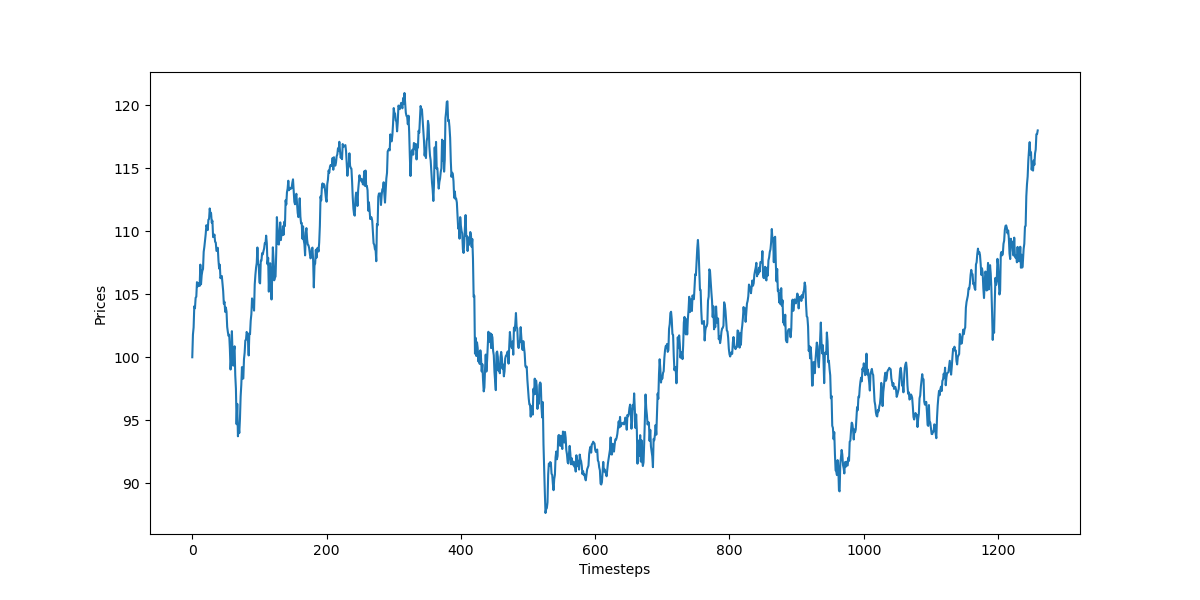
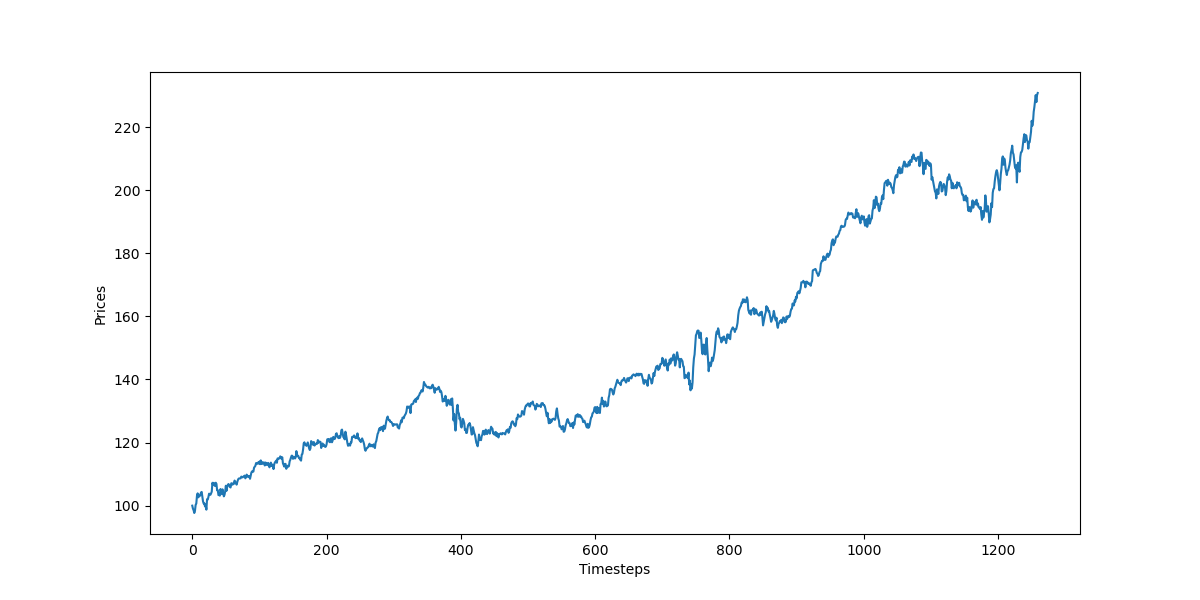
DCC GARCH 2 step optimization

diff --git a/data_generation_processes/DCC_GARCH_2step.py b/data_generation_processes/DCC_GARCH_2step.py
@@ -23,46 +23,77 @@ class DCC_GARCH():
         R_t:        n x n, conditional correlation matrix of a_t at time t.
         z_t:        n x 1 vector of iid errors such that E[z_t] = 0 and E[z_t z_t^T] = I.
     """
-    def __init__(self, data):
+    def __init__(self, data, type="vanilla"):
         """
             Args:
             data: (N,T) numpy array of T timesteps of N asset log returns
         """
-        self.N = data.shape[0]
-        self.T = data.shape[1]
-        self.data = data
-        self.r_data = data                                                          #(N, T)
-        self.mu = np.mean(self.r_data, axis=1, keepdims=True)                       #(N, 1) 
-        self.a_data = self.r_data - np.mean(self.r_data, axis=1, keepdims=True)     #(N, T)
-        self.H = np.cov(self.a_data)                                                #(N, N)
-        self.H_factor = np.linalg.cholesky(self.H)                                  #(N, N)
-        self.D = np.diag(np.std(self.a_data, axis=1))                               #(N, N)
-        self.R = np.corrcoef(self.a_data)                                           #(N, N)
-        self.a_return = self.H_factor@np.random.randn(self.N, 1)                    #(N, 1)
-        self.r = self.mu + self.a_return                                            #(N, 1)
-        self.e = np.linalg.inv(self.D)@self.a_return                                #(N, 1)
-        self.e_data = np.linalg.inv(self.D)@self.a_data                             #(N, T)
-        self.Q_bar = self.e_data@self.e_data.T/self.T                               #(N, N)                                           
-        self.Q = np.copy(self.Q_bar)                                                         #(N, N)
-        self.params_garch = np.zeros(self.N*3)+0.005                                     #[N*alpha0, N*alpha, N*beta, a, b]
-        self.params_dcc = np.zeros(2)+0.005
-        # self.alpha0 = np.std(self.a_data, axis=1)
-        # self.params = np.append(self.alpha0, np.zeros(self.N*2+2)+0.005)             #[N*alpha0, N*alpha, N*beta, a, b]
-        # self.nll_losses = []
-        # self.prev_params = np.copy(self.params)
-        # self.prev_nll = 0
-        # self.params = [1.04384412e-05, 5.56351037e-06, 3.14464258e-01, 3.24972411e-01, 7.64612517e-05, 1.00717994e-03, 2.27767312e-01, 1.10808117e-04]
+        self.type = type
+        self.N = data.shape[0]                                                      # Number of assets
+        self.T = data.shape[1]                                                      # NUmber of time steps
+        self.data = data                                                            #(N, T) Dataset of log returns
+        self.r_data = data                                                          #(N, T) Log returns of the data
+        self.mu = np.mean(self.r_data, axis=1, keepdims=True)                       #(N, 1) Expected value of the log returns of the data
+        self.a_data = self.r_data - np.mean(self.r_data, axis=1, keepdims=True)     #(N, T) Mean corrected returns of the dataset
+        self.H = np.cov(self.a_data)                                                #(N, N) conditional variance matrix 
+        self.H_factor = np.linalg.cholesky(self.H)                                  #(N, N) cholesky factorization of the covariance matrix
+        self.D = np.diag(np.std(self.a_data, axis=1))                               #(N, N) diagonal matrix of the standard deviation
+        self.R = np.corrcoef(self.a_data)                                           #(N, N) conditional correlation matrix 
+        self.a_return = self.H_factor@np.random.randn(self.N, 1)                    #(N, 1) generated a_t
+        self.r = self.mu + self.a_return                                            #(N, 1) generate r_t
+        self.e = np.linalg.inv(self.D)@self.a_return                                #(N, 1) generated e_t
+        self.e_data = np.linalg.inv(self.D)@self.a_data                             #(N, T) e_t from data
+        self.Q_bar = self.e_data@self.e_data.T/self.T                               #(N, N) Q_bar using e_data                                          
+        self.num_params_garch = 4 if self.type == "gjr" else 3
+        if type == "gjr":
+            self.params = np.concatenate((np.var(self.a_data, axis=1), np.zeros(self.N*2)+0.2, np.zeros(self.N)+0.1, np.zeros(2)+0.2))   # parameters [N*alpha0, N*alpha, N*beta, N*gamma, a, b]
+        else:
+            self.params = np.concatenate((np.var(self.a_data, axis=1), np.zeros(self.N*2)+0.2, np.zeros(2)+0.2))   # parameters [N*alpha0, N*alpha, N*beta, a, b]
+
+        # self.params = [8.26653925e-05, 4.26930333e-05, 2.15645253e-05, 3.47352036e-05, 2.17463059e-05, 2.77256555e-05, 
+        #                4.88055909e-01, 4.53632078e-01, 4.55335336e-01, 4.44909987e-01, 4.50541641e-01, 4.60263855e-01,
+        #                5.10702325e-01, 4.91397344e-01, 5.00709648e-01, 4.96429990e-01, 5.08129108e-01, 5.19125001e-01, 
+                    #    2.01240559e-01, 3.96732870e-01]                              # GARCH "AAPL ^GDAXI ^IXIC ^GSPC ^DJI MCD"
+        # self.params = [7.69190563e-06, 3.40617337e-06, 8.43286285e-07, 2.34670148e-06, 8.82266125e-07, 1.35735374e-06, 
+        #                5.34717567e-02, 9.90676117e-02, 1.71654882e-02, 9.09021040e-02, 2.00707347e-02, 3.07189856e-02,
+        #                9.08018007e-01, 8.96126936e-01, 9.47662499e-01, 8.96374022e-01, 9.47693815e-01, 9.42938402e-01,
+        #                6.27230466e-02, 2.92499894e-03, 5.06681487e-02, 1.77359878e-02, 4.40253553e-02, 3.28146310e-02, 
+        #                1.93617031e-02, 9.76175652e-01]                                # GJR-GARCH "AAPL ^GDAXI ^IXIC ^GSPC ^DJI MCD"
+        # self.params = [1.19523637e-05, 2.11605229e-06, 
+        #                1.03456625e-01, 1.04024146e-01, 
+        #                8.79042244e-01, 8.79606348e-01, 
+        #                2.33099997e-02, 9.72480707e-01]                              # GARCH "AAPL ^GSPC"                               
+        # self.params = [1.22778074e-05, 1.78956576e-06, 6.09289961e-02, 4.69337514e-03,
+        #                8.76762304e-01, 9.10380382e-01, 9.20651668e-02, 1.33300686e-01, 
+        #                2.69344690e-02, 9.67347998e-01]                                # GJR-GARCH "AAPL ^GSPC"
+        self.nll_losses = []                                                          # negative log likelihood array used to store training losses
+        
         def constraint_ab(x):
+            """DCC constraint a + b < 1"""
             return 1.0 - x[-2] - x[-1]
         
-        def constraint_alpha_beta(x):
-            return 1.0 - x[self.N:2*self.N] - x[2*self.N:3*self.N]
+        if self.type == "gjr":
+            def constraint_alpha_beta_gamma(x):
+                """GARCH constraint alpha_n + beta_n < 1"""
+                return 1.0 - x[self.N:2*self.N] - x[2*self.N:3*self.N] - x[3*self.N:4*self.N]/2.0
+            
+            self.garch_constraints = [{'type':'ineq', 'fun':constraint_alpha_beta_gamma}]
+        else:
+            def constraint_alpha_beta(x):
+                """GARCH constraint alpha_n + beta_n < 1"""
+                return 1.0 - x[self.N:2*self.N] - x[2*self.N:3*self.N]
+            
+            self.garch_constraints = [{'type':'ineq', 'fun':constraint_alpha_beta}]
         
-        self.constraints_garch = [{'type':'ineq', 'fun':constraint_alpha_beta}]
-        self.constraints_dcc = [{'type':'ineq', 'fun':constraint_ab}]
+        self.dcc_constraints = [{'type':'ineq', 'fun':constraint_ab}]
 
-        self.bounds_garch = Bounds([np.finfo(float).eps for i in range(self.N*3)], [np.inf for i in range(self.N*3)], keep_feasible=[True for i in range(self.N*3)])
-        self.bounds_dcc = Bounds([np.finfo(float).eps for i in range(2)], [np.inf for i in range(2)], keep_feasible=[True for i in range(2)])
+        self.garch_bounds = Bounds([np.finfo(float).eps for i in range(self.N*self.num_params_garch)],        # Bounds (0,inf) for alpha_0, alpha, beta, gamma(if gjr)
+                             [np.inf for i in range(self.N*self.num_params_garch)], 
+                             keep_feasible=[True for i in range(self.N*self.num_params_garch)])
+
+        self.dcc_bounds = Bounds([np.finfo(float).eps for i in range(2)],        # Bounds (0,inf) for a, b 
+                             [np.inf for i in range(2)], 
+                             keep_feasible=[True for i in range(2)])
 
     def D_t(self, params, t=0, train=False):
         """
@@ -71,12 +102,15 @@ class DCC_GARCH():
         alpha0 = np.expand_dims(params[0:self.N],axis=1)
         alpha = np.expand_dims(params[self.N:2*self.N],axis=1)
         beta = np.expand_dims(params[2*self.N:3*self.N], axis=1)
-        
-        h_vector = np.expand_dims(np.diag(self.D)**2,axis=1)
-        if train:
-            self.a_return = self.a_data[:, t:t+1]
+        if self.type == "gjr":
+            gamma = np.expand_dims(params[3*self.N:4*self.N], axis=1)
+            I = np.where(self.a_return > 0, 0.0, 1.0)
+            alpha = alpha + gamma*I
+
+        h_vector = np.expand_dims(np.diag(self.D)**2, axis=1)
         new_h_vector = alpha0 + alpha * self.a_return**2 + beta * h_vector
         self.D = np.diag(np.sqrt(new_h_vector.flatten()))
+        
         return self.D
     
     def R_t(self, params, t=0, train=False):
@@ -84,102 +118,138 @@ class DCC_GARCH():
             e_t = D_t^{-1} a_t \\sim N(0, R_t)
             R_t = Q_t^{*-1} Q_t Q_t^{*-1}
             Q_t = (1 - a - b) Q_bar + a e_{t-1} e_{t-1}^T + b Q_{t-1}
-
         """
         a = params[-2]
         b = params[-1]
 
-        if train:
-            self.e = self.e_data[:, t:t+1]
         self.Q = (1 - a - b) * self.Q_bar + a * self.e@self.e.T + b * self.Q
         Q_diag_inv = np.linalg.inv(np.diag(np.sqrt(np.diag(self.Q))))
         self.R = Q_diag_inv@self.Q@Q_diag_inv
-        
+
         return self.R
 
     def r_t(self, t=0, train=False):
+        """
+        r_t = mu + a_t
+        a_t = H_factor * z_t
+        H_t = D_t R_t D_t
+        """
         self.H = self.D@self.R@self.D
         self.H_factor = np.linalg.cholesky(self.H)
         self.a_return = self.H_factor@np.random.randn(self.N, 1)
         self.r = self.mu + self.a_return
-        # update standardized disturbances
         self.e = np.linalg.inv(self.D)@self.a_return
-        
         return self.r
     
-    def neg_log_likelihood_garch(self, params):
-        # if np.any(params < 0.0) or np.any(params > 1.0) or np.any(params[-2] + params[-1] > 1.0) or np.any(params[self.N:2*self.N] + params[2*self.N:3*self.N] > 1.0):
-        #     params = np.copy(self.prev_params)
-        #     return self.prev_nll+np.abs(self.prev_nll)*0.001
-        print("params: ", params)
+    def garch_neg_log_likelihood(self, params):
+        """
+        Compute negative log likelihhod
+        1/2 sum^T_{t=1} [n * ln(2*pi) + 2 * ln(det(D_t)) + ln(det(R_t)) + a_t^T D_t^{-1} R_t^{-1} D_t^{-1} a_t]
+        """
+        # print("params: ", params)
         train = True
         log_likelihood = 0
+        self.D = np.diag(np.std(self.a_data, axis=1))
+        # self.R = np.corrcoef(self.a_data)
+        Id = np.identity(self.N)
+        self.Q = self.Q_bar
         for t in range(self.T):
+            self.a_return = self.a_data[:, t:t+1]
+            current_log_likelihood = self.N * np.log(2*np.pi) + 2*np.log(np.linalg.det(self.D)) + self.a_return.T@np.linalg.inv(self.D)@Id@np.linalg.inv(self.D)@self.a_return
+            log_likelihood += current_log_likelihood
+            # self.e = np.linalg.inv(self.D)@self.a_return
             self.D_t(params=params, t=t, train=train)
-            current_log_likelihood = self.N * np.log(2*np.pi) + 2*np.log(np.linalg.det(self.D)) + self.a_return.T@np.linalg.inv(self.D)@np.identity(self.N)@np.linalg.inv(self.D)@self.a_return
-            log_likelihood += current_log_likelihood
-        nll = log_likelihood.flatten()[0]/2
-        print("nll: ", nll)
-        print()
-        # self.nll_losses.append(nll)
-        # self.prev_params = np.copy(params)
-        # self.prev_nll = np.copy(nll)
+            # self.R_t(params=params, t=t, train=train)
+        nll = log_likelihood.flatten()[0]/2.0
+        # print("nll: ", nll)
+        # print()
+        self.nll_losses.append(nll)
         return nll
-
-    def neg_log_likelihood_dcc(self, params):
-        # if np.any(params < 0.0) or np.any(params > 1.0) or np.any(params[-2] + params[-1] > 1.0) or np.any(params[self.N:2*self.N] + params[2*self.N:3*self.N] > 1.0):
-        #     params = np.copy(self.prev_params)
-        #     return self.prev_nll+np.abs(self.prev_nll)*0.001
-        print("params: ", params)
+    
+    def dcc_neg_log_likelihood(self, params):
+        """
+        Compute negative log likelihhod
+        1/2 sum^T_{t=1} [n * ln(2*pi) + 2 * ln(det(D_t)) + ln(det(R_t)) + a_t^T D_t^{-1} R_t^{-1} D_t^{-1} a_t]
+        """
+        # print("params: ", params)
         train = True
         log_likelihood = 0
+        self.D = np.diag(np.std(self.a_data, axis=1))
+        self.R = np.corrcoef(self.a_data)
+        # Id = np.identity(self.N)
+        self.Q = self.Q_bar
         for t in range(self.T):
-            self.D_t(params=self.params_garch, t=t, train=train)
-            self.R_t(params=params, t=t, train=train)
-            current_log_likelihood = self.N * np.log(2*np.pi) + 2*np.log(np.linalg.det(self.D)) + np.log(np.linalg.det(self.R)) + self.a_return.T@np.linalg.inv(self.D)@np.linalg.inv(self.R)@np.linalg.inv(self.D)@self.a_return
+            self.a_return = self.a_data[:, t:t+1]
+            current_log_likelihood = np.log(np.linalg.det(self.R)) + self.a_return.T@np.linalg.inv(self.D)@np.linalg.inv(self.R)@np.linalg.inv(self.D)@self.a_return
             log_likelihood += current_log_likelihood
-        nll = log_likelihood.flatten()[0]/2
-        print("nll: ", nll)
-        print()
-        # self.nll_losses.append(nll)
-        # self.prev_params = np.copy(params)
-        # self.prev_nll = np.copy(nll)
+            self.e = np.linalg.inv(self.D)@self.a_return
+            self.D_t(params=params, t=t, train=train)
+            self.R_t(params=params, t=t, train=train)
+        nll = log_likelihood.flatten()[0]/2.0
+        # print("nll: ", nll)
+        # print()
+        self.nll_losses.append(nll)
         return nll
     
     def train(self):
-        params_garch = self.params_garch
-        results_garch = minimize(fun=self.neg_log_likelihood_garch, x0=params_garch, method="slsqp",
-                           options={'disp': True}, constraints=self.constraints_garch, bounds=self.bounds_garch)
-        self.params_garch = results_garch.x
-        params_dcc = self.params_dcc
-        results_dcc = minimize(fun=self.neg_log_likelihood_dcc, x0=params_dcc, method="slsqp",
-                           options={'disp': True}, constraints=self.constraints_dcc, bounds=self.bounds_dcc)
-        self.params = results_dcc.x
-        return results_garch.x, results_dcc.x
+        """Training loop"""
+        garch_params = self.params[0:-2]
+        garch_results = minimize(fun=self.garch_neg_log_likelihood, x0=garch_params, method="trust-constr",
+                           options={'verbose': 3, 'maxiter': 2000, 'xtol': 1e-4}, constraints=self.garch_constraints, bounds=self.garch_bounds)
+        self.params[0:-2] = garch_results.x
+        print(self.params)
+        
+        dcc_params = self.params[-2:]
+        dcc_results = minimize(fun=self.dcc_neg_log_likelihood, x0=dcc_params, method="trust-constr",
+                           options={'verbose': 3, 'maxiter': 2000, 'xtol': 1e-4}, constraints=self.dcc_constraints, bounds=self.dcc_bounds)
+        self.params[-2:] = dcc_results.x
+        print(self.params)
+        return self.params
 
     def generate(self, S_0, num_points):
-        prices = np.ones((self.N, num_points)) * S_0
+        """Loop used to generate paths using the estimated parameters"""
+        prices = np.ones((self.N, num_points)) * S_0                                # (N, num_points) Paths of length num_points of the N assets
+        self.D = np.diag(np.std(self.a_data, axis=1))
+        self.R = np.corrcoef(self.a_data)
+        self.Q = self.Q_bar
+
         for t in range(num_points):
-            self.D_t(params=self.params_garch)
-            self.R_t(params=self.params_dcc)
             r_t = self.r_t()
             prices[:, t+1:t+2] = prices[:, t:t+1]*np.exp(r_t)
+            self.D_t(params=self.params)
+            self.R_t(params=self.params)
         return prices
+    
+"""
+^GDAXI: DAX, 
+AAPL: APPLE,
+^IXIC: NASDAQ
+^GSPC: S AND P 500
+"""
+# stocks = "AAPL ^GDAXI ^IXIC ^GSPC ^DJI MCD"
+stocks = "AAPL ^GSPC"
 
-stocks = "^GDAXI ^GSPC"
 data = yf.download(stocks, start="2000-09-10", end="2024-08-20", interval="1d")
 log_returns = np.log(data['Close'] / data['Close'].shift(1)).dropna()
 log_returns_np = log_returns.to_numpy().T
 
-model = DCC_GARCH(log_returns_np)
+model = DCC_GARCH(log_returns_np, type="gjr")
 
-params_garch, params_dcc = model.train()
+params = model.train()
+# print(params)
 
-# plt.plot(model.nll_losses)
-# plt.savefig("nll_losses.png")
-# plt.close()
+plt.figure(figsize=(12,6))
+plt.plot(model.nll_losses)
+plt.xlabel("Iterations")
+plt.ylabel("Negative Log Likelihood")
+plt.savefig("dcc_nll_losses.png")
+plt.close()
 
+plt.figure(figsize=(12,6))
 x = model.generate(100, 252*5)
 plt.plot(x.T)
+plt.xlabel("Timesteps")
+plt.ylabel("Prices")
+plt.legend(list(stocks.split(" ")))
 plt.savefig("dcc_garch_test.png")
 plt.close()

diff --git a/data_generation_processes/DCC_GARCH.py b/data_generation_processes/DCC_GARCH.py
@@ -54,6 +54,11 @@ class DCC_GARCH():
         #                4.88055909e-01, 4.53632078e-01, 4.55335336e-01, 4.44909987e-01, 4.50541641e-01, 4.60263855e-01,
         #                5.10702325e-01, 4.91397344e-01, 5.00709648e-01, 4.96429990e-01, 5.08129108e-01, 5.19125001e-01, 
                     #    2.01240559e-01, 3.96732870e-01]                              # GARCH "AAPL ^GDAXI ^IXIC ^GSPC ^DJI MCD"
+        self.params = [7.69190563e-06, 3.40617337e-06, 8.43286285e-07, 2.34670148e-06, 8.82266125e-07, 1.35735374e-06, 
+                       5.34717567e-02, 9.90676117e-02, 1.71654882e-02, 9.09021040e-02, 2.00707347e-02, 3.07189856e-02,
+                       9.08018007e-01, 8.96126936e-01, 9.47662499e-01, 8.96374022e-01, 9.47693815e-01, 9.42938402e-01,
+                       6.27230466e-02, 2.92499894e-03, 5.06681487e-02, 1.77359878e-02, 4.40253553e-02, 3.28146310e-02, 
+                       1.93617031e-02, 9.76175652e-01]                                # GJR-GARCH "AAPL ^GDAXI ^IXIC ^GSPC ^DJI MCD"
         # self.params = [1.19523637e-05, 2.11605229e-06, 
         #                1.03456625e-01, 1.04024146e-01, 
         #                8.79042244e-01, 8.79606348e-01, 
